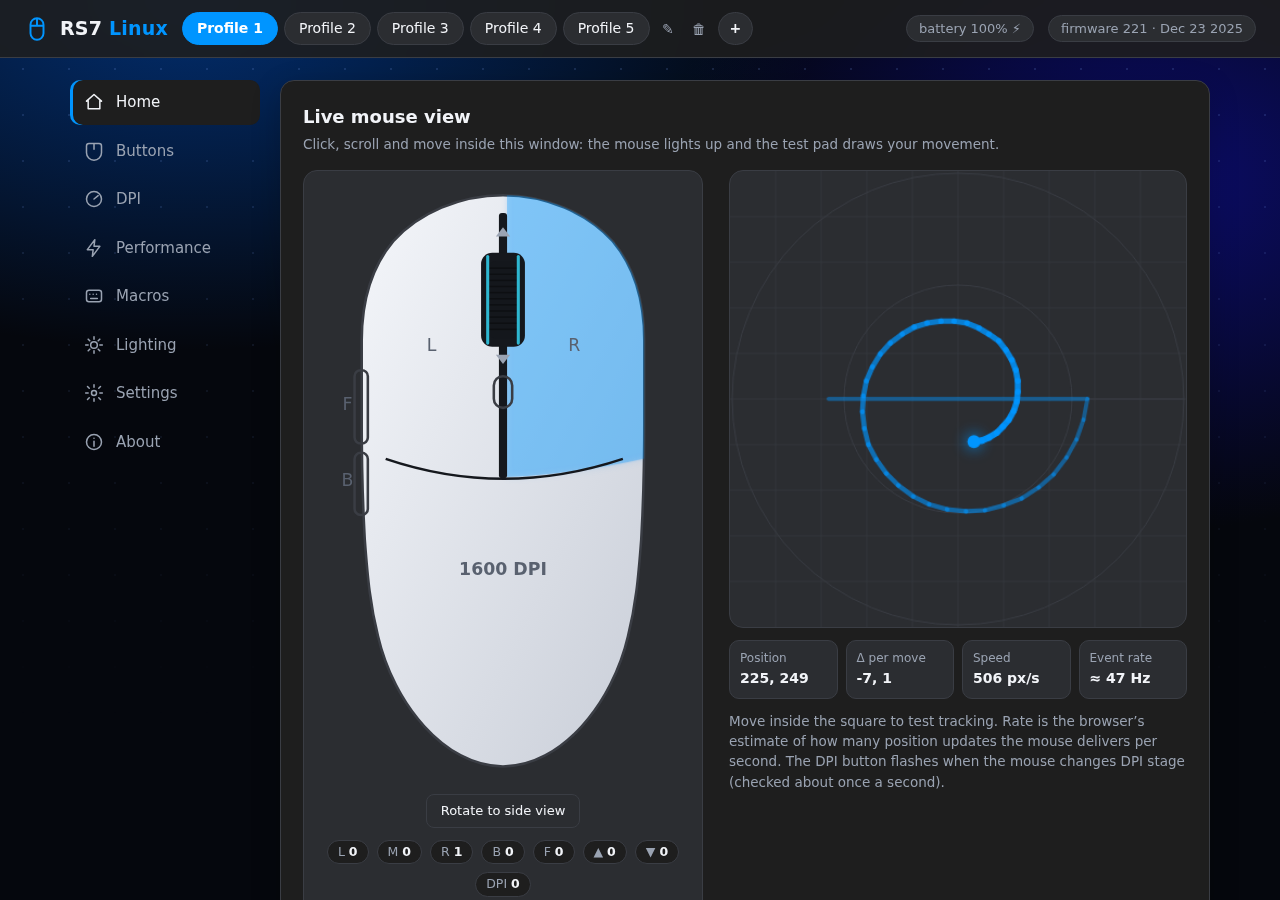
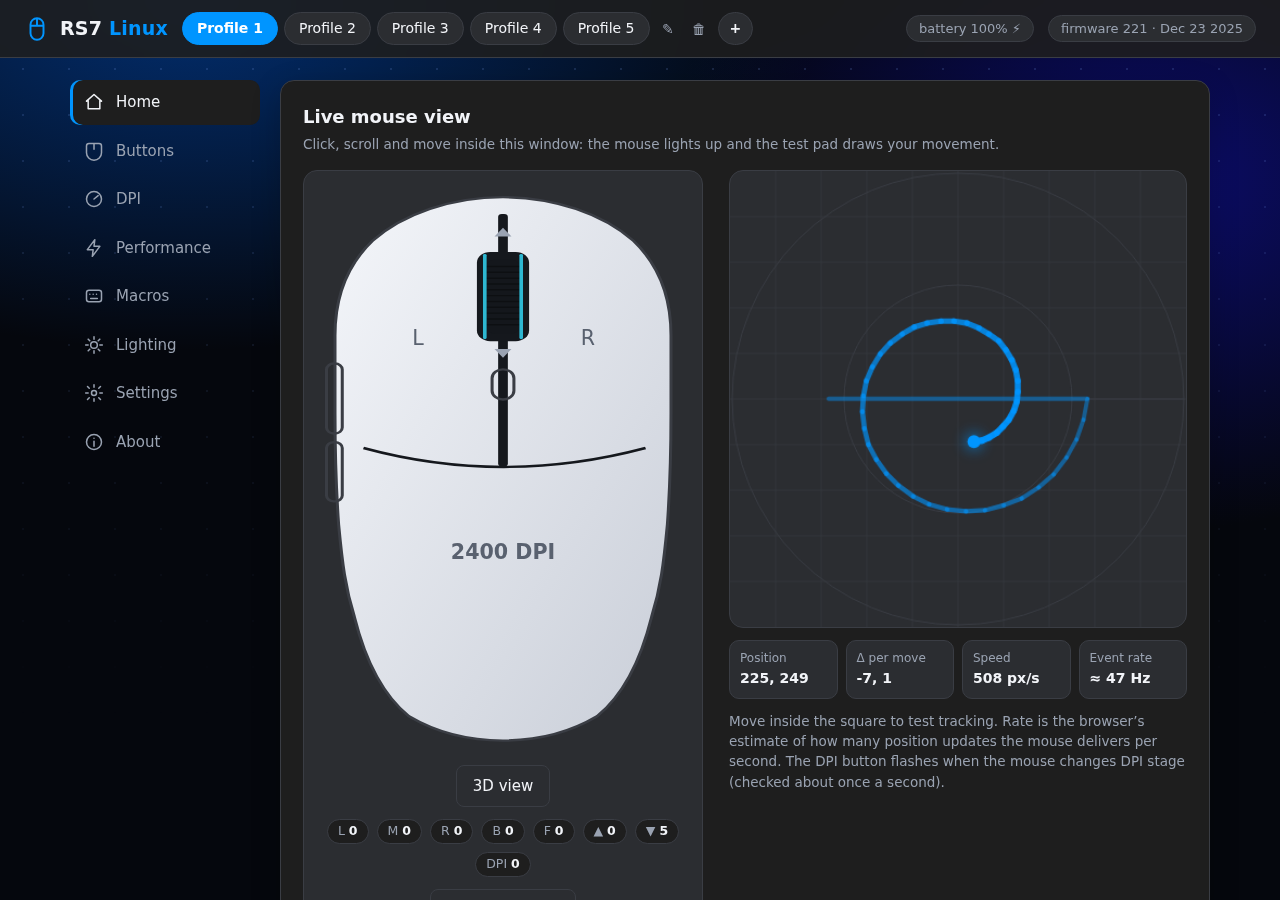
docs: live feed, screenshot; release 0.8.0

diff --git a/rs7/__init__.py b/rs7/__init__.py
@@ -1,2 +1,2 @@
 """rs7-linux: unofficial Linux configurator for the Smailwolf RS7 mouse (YJX chip)."""
-__version__ = "0.7.2"
+__version__ = "0.8.0"

diff --git a/README.md b/README.md
@@ -16,7 +16,8 @@ The vendor only ships a Windows driver and a Chrome/Edge WebHID page; this proje
 | Lighting mode (off / steady / breathing) | verified |
 | Button remapping (mouse, keyboard keys + modifiers, media, DPI loop, disable) | verified (write + read-back) |
 | Macros (record/edit up to 32, bind to a button: repeat N / while held / until click) | upload + binding verified by read-back; the macro *playing* on a button press has not been checked on hardware yet |
-| Home: live mouse view traced from the product photos (top view + side view with a flip animation) whose buttons/wheel light up as you click/scroll, click counters, DPI button flashes on stage change, plus a movement test pad with trail, speed and event-rate estimate | UI-tested with synthetic events |
+| Home: live mouse view (vector drawing traced from the product photos, optional 3D) whose buttons/wheel light up as you click/scroll — read straight from the device via evdev, so the side buttons and every quick click show up — plus click counters, DPI button flash on stage change and a movement test pad | feed unit-tested + UI-tested with injected events; try it with your mouse |
+| Buttons tab uses the same drawing: click a button on the mouse to remap it | UI-tested |
 | Profiles: 5 by default, `+` to add more (up to 20), rename/delete; every change is saved into the active profile | verified on hardware |
 | English + Português (Brasil), light/dark/auto theme | UI-tested |
 | Tray icon (battery %, profile switcher, open app) via StatusNotifierItem — GNOME, KDE, XFCE, Cinnamon, MATE… | registration + menu + profile switching verified on GNOME/Wayland; other desktops use the same standard protocol |
@@ -49,6 +50,9 @@ rs7 light breathing
 rs7 profile list      # software profiles; `rs7 profile apply "Profile 2"`
 rs7 tray              # panel icon with battery + profile switcher (also: Settings → Tray icon)
 ```
+
+### Live button feed
+The Home view reads the mouse's button/wheel events directly from `/dev/input/event*` (passive, nothing is grabbed), so it works for the side buttons that browsers hide and even when the window is not focused. It needs read access to the input devices (on most distros: be in the `input` group). Without it the UI says so and falls back to browser events.
 
 ### Optional 3D mouse view
 The Home tab can show a rotatable 3D mouse (drag to rotate, scroll to zoom; buttons, wheel, DPI and side buttons glow). The repository does **not** ship a model — bring your own Wavefront `.obj` (a model whose licence you are allowed to use) and install it:

diff --git a/CHANGELOG.md b/CHANGELOG.md
@@ -1,5 +1,10 @@
 # Changelog
 
+## 0.8.0
+- 2D mouse is shorter (better proportions); the side view was removed.
+- Buttons tab now uses the same 2D drawing (click a button on the mouse to remap it).
+- Live button/wheel feed from the device (evdev → server-sent events): side buttons and quick clicks now light up reliably; browser events remain as fallback with an explanatory hint.
+
 ## 0.7.2
 - `rs7 gui`: when the port is already taken (e.g. an older instance still running) it says so and uses the next free port instead of crashing with a traceback.
 
